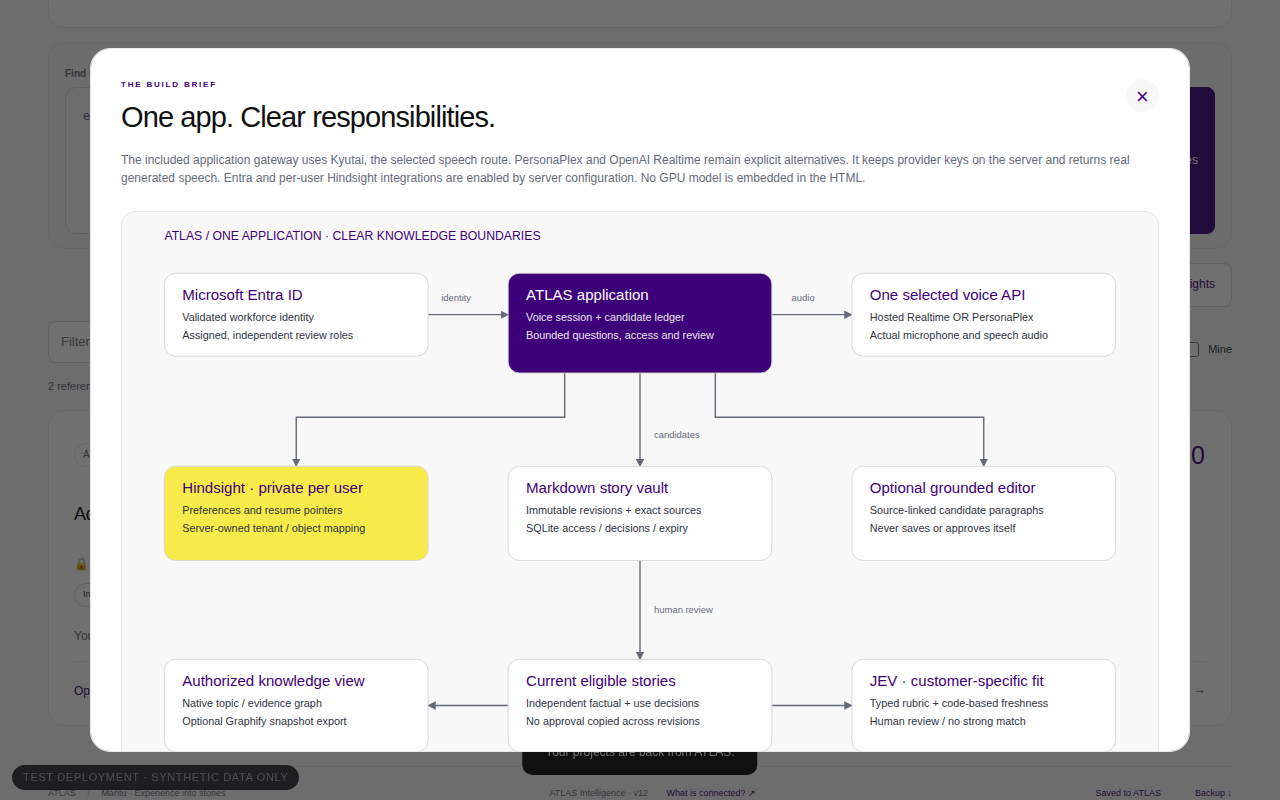
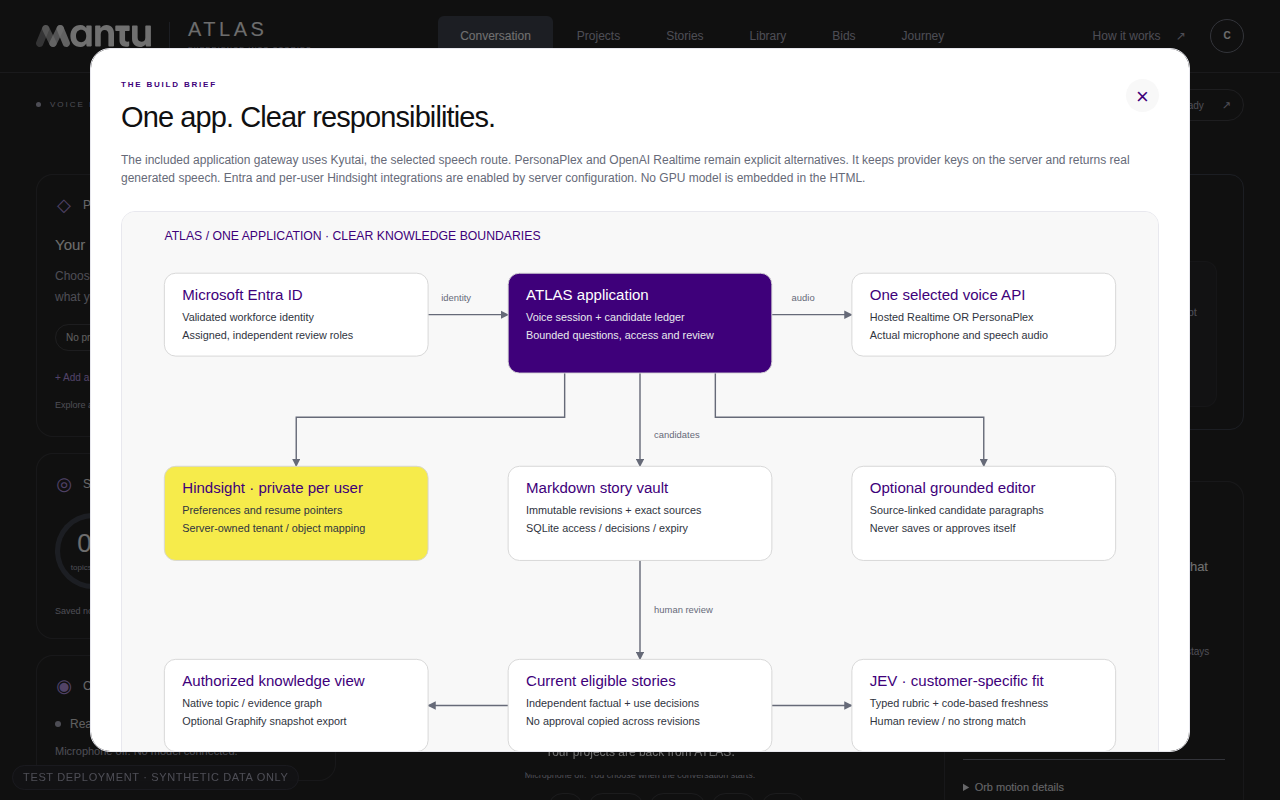
Record the connection-chip contract and refresh the shell evidence.
D-07 names the chip with the visible status, so the zero-config check
now requires that status prefix and an ending of "Connection and privacy".
Retake the 375px and desktop shots, and refresh MANIFEST.json.

[skip ci]

Changed region(s): [[0.0, 0.0, 1.0, 1.0]]

diff --git a/tests/zero_config_browser.py b/tests/zero_config_browser.py
@@ -186,7 +186,12 @@ with sync_playwright() as pw:
     check('1 no setup text in the conversation view, the address form hidden, the pill reads "Ready"',
           not FORBIDDEN.search(p.locator('#interview').inner_text()) and p.locator('#gatewayOpenBox').is_hidden() and p.locator('#voiceState').inner_text() == 'Ready'
           and p.locator('#cardConnection').is_hidden() and p.locator('#emptyVoiceNote').is_hidden())
-    check('1 the connection pill is labelled "Connection and privacy"', p.locator('#studioConnection').get_attribute('aria-label') == 'Connection and privacy')
+    connection_status = p.locator('#voiceState').inner_text().strip()
+    connection_label = p.locator('#studioConnection').get_attribute('aria-label') or ''
+    check(
+        '1 the connection pill name starts with the visible status and ends with "Connection and privacy"',
+        bool(connection_status) and connection_label == f'{connection_status}. Connection and privacy',
+    )
     consent(p)
     dlg = p.locator('#voiceConsentDialog')
     check('1 Start opens the consent step at once: exactly one visible checkbox, heading with the first name',

diff --git a/handoff/BUILD_STATUS.md b/handoff/BUILD_STATUS.md
@@ -1,6 +1,25 @@
 # Build status — continue here
 **Received state:** handoff 12.1 / application v12. The application is not deployed and live providers remain unvalidated.
 
+## 2026-11-21 — sweep 01 group 12 UI shell (`cursor/atlas-s01-fix-ui-shell-v2`)
+
+Mergeable copy of draft #44, branched from main `8b0972ecf68228ab4a3bab5e4e90ffd5948826ec`. Red tests are `355e1fd4c4bcee332e874c0f8f4f64ac0c4ea92e`. That commit only adds `tests/s01-ui-shell-c-browser.py`, `tests/s01-ui-shell-d-browser.py`, and `tests/s01-ui-shell.test.js`. It does not refresh `MANIFEST.json`.
+
+Copied from red tests `96712474`: C-1, C-2, C-4, C-5, D-01 through D-12 (D-04 is C-2 and is not a second check), and the shell half of E7. C-3 stays with group 13 (`src/voice-client.js` and the production-conflict sentence). The `handoff/CURRENT_STATUS.md` half of E7 stays with group 15.
+
+Red, before the product edit: C 0 pass / 4 fail, exit 1. D 0 pass / 11 fail, exit 1. E7 shell 0 pass / 1 fail, exit 1. The E7 failure is `v11.0` still present (`true !== false`).
+
+The product edit is cherry-pick `851b4f30616d0a5f865b192aa8a8cf70cc101128` (draft #44). After it, those same checks are 4 pass, 11 pass, and 1 pass, all exit 0. `tests/zero_config_browser.py` now requires the connection chip name to be the visible status plus `. Connection and privacy`. Screenshots retaken under `docs/qa/s01-ui/`. `MANIFEST.json` is regenerated after this note.
+
+Measured on this branch with `CHROMIUM_PATH=/usr/bin/google-chrome`, before this paragraph's manifest refresh:
+
+- `node --test tests/*.test.js`: 420 tests, 420 pass, 0 fail, 0 skipped, exit 0.
+- `cd deploy/cloudflare-edge && node --test test/*.test.js`: 1117 tests, 1113 pass, 0 fail, 4 skipped, exit 0. The four skips are the existing workerd proofs (`ATLAS_WORKERD_ROOT` unset). This change adds none.
+- `make test-ui`: 834 PASS, 0 FAIL, exit 0.
+- `python3 -m pytest tests/test_*.py -q --tb=line` before the manifest refresh: 411 passed, 2 failed. The two are `test_repository_full_handoff_includes_clean_rebuild` and `test_git_archive_of_head_passes_check_handoff`.
+
+C-3 and `handoff/CURRENT_STATUS.md` were not edited.
+
 ## 2026-11-20 — check_handoff fence loop 4 (`cursor/atlas-checkhandoff-nested-git`)
 
 Narrow loop authorized by Tony: exact top-level `.git` detection, a clean git-failure exit, and the two surviving mutants. Red tests are `7050ae304498d0e4ed79a43017065ebb946ddbe9`. That commit does not refresh `MANIFEST.json`. Running `tests/test_handoff.py` on it fails the new tests and two extra stale-manifest tests: `test_repository_full_handoff_includes_clean_rebuild` and `test_git_archive_of_head_passes_check_handoff`. The fix is `48fbb4575576a6ed264cc8f94948d25452437271`. `MANIFEST.json` is regenerated after this note.
